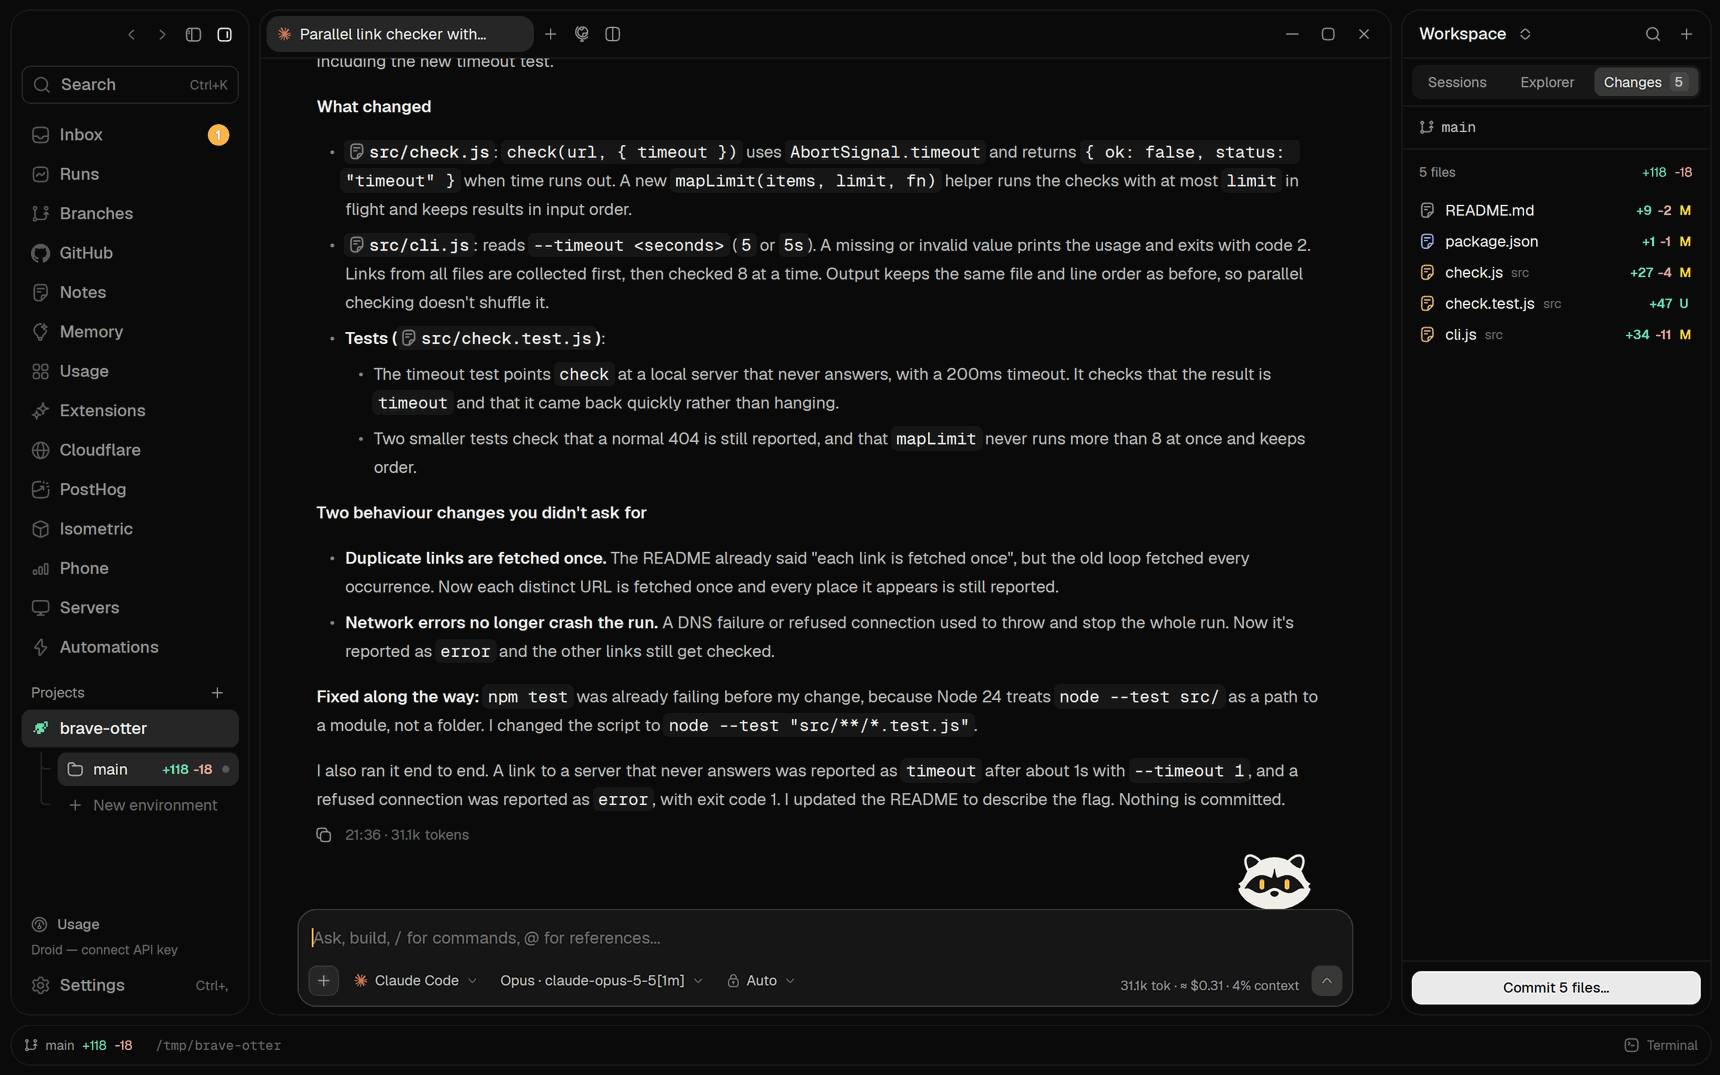
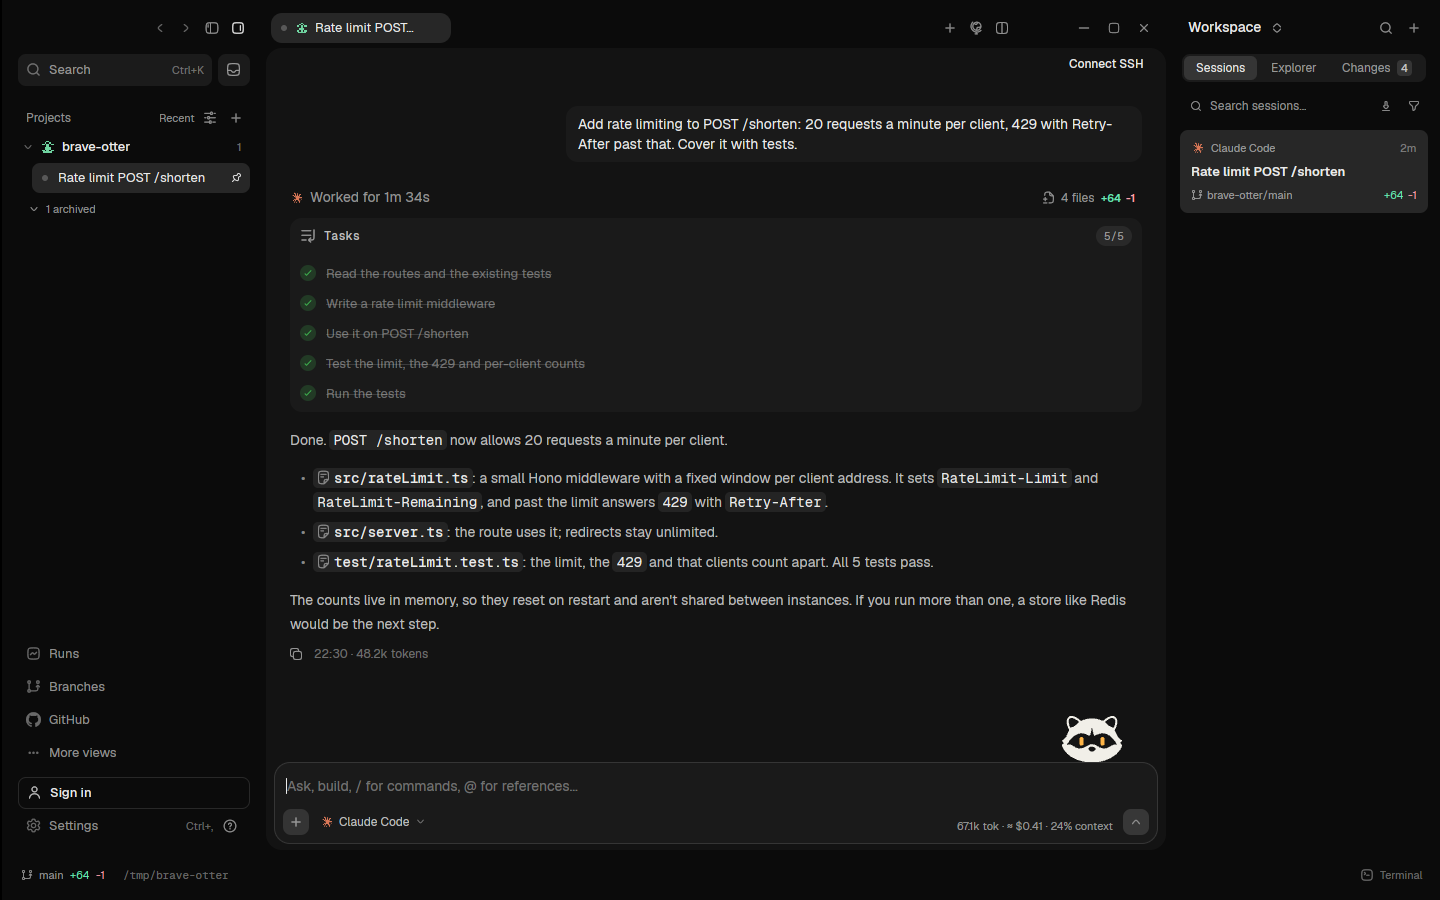
feat(sidebar): make needs you first the default sidebar layout
A new sidebar starts with Needs you on top, every project with its
sessions below, then Runs, Branches, GitHub and More views. A layout
saved as the Switcher, the old default, moves to it once; a layout
arranged by hand, another preset or a Switcher on trial stays. The
preset is first in the sidebar builder and the setup's sidebar step.

Refs ARAKUN-350

diff --git a/src/sidebar.rs b/src/sidebar.rs
@@ -646,6 +646,9 @@ pub type Path = (usize, usize);
 
 #[derive(Clone, Copy, Debug, PartialEq, Eq)]
 pub enum Preset {
+    /// Sessions that need the user on top, then every project with its
+    /// sessions, three views by name and the rest in More views. The default.
+    NeedsYou,
     /// The open project and its environments; three views by name, the
     /// rest in More views.
     Switcher,
@@ -664,7 +667,8 @@ pub enum Preset {
 }
 
 impl Preset {
-    pub const ALL: [Preset; 7] = [
+    pub const ALL: [Preset; 8] = [
+        Preset::NeedsYou,
         Preset::Switcher,
         Preset::Focused,
         Preset::Developer,
@@ -676,6 +680,7 @@ impl Preset {
 
     pub fn label(self) -> &'static str {
         match self {
+            Preset::NeedsYou => "Needs you first",
             Preset::Switcher => "Switcher",
             Preset::Focused => "Focused",
             Preset::Developer => "Developer",
@@ -688,6 +693,7 @@ impl Preset {
 
     pub fn blurb(self) -> &'static str {
         match self {
+            Preset::NeedsYou => "Sessions that need you on top, then every project, views by name",
             Preset::Switcher => "One project at a time, its environments, views by name",
             Preset::Focused => "Inbox and projects; the rest folded away",
             Preset::Developer => "Projects, then runs and branches in a segment of their own",
@@ -739,6 +745,42 @@ impl Preset {
         let active = || Section::new("Active", Mode::Scroll, vec![Piece::active()]);
         let mut style = Style::default();
         let sections = match self {
+            // Needs you is the Active piece in the session tree: what waits
+            // or failed goes up there and leaves its project meanwhile.
+            Preset::NeedsYou => vec![
+                Section::new(
+                    "Top",
+                    Mode::Fixed,
+                    vec![
+                        Piece::Search,
+                        Piece::view(View::Inbox),
+                        Piece::view(View::Teams),
+                    ],
+                ),
+                active(),
+                projects,
+                Section::new(
+                    "Views",
+                    Mode::Fixed,
+                    [
+                        views(&[
+                            #[cfg(feature = "coderlabs")]
+                            View::Tasks,
+                            View::Runs,
+                            View::Branches,
+                            View::GitHub,
+                        ]),
+                        vec![Piece::MoreViews],
+                    ]
+                    .concat(),
+                ),
+                account(vec![
+                    Piece::User,
+                    Piece::usage_line(),
+                    Piece::Help,
+                    Piece::Settings,
+                ]),
+            ],
             Preset::Switcher => vec![
                 Section::new(
                     "Top",
@@ -985,6 +1027,7 @@ impl Preset {
             offered_help: true,
             offered_user: true,
             switcher_offered: true,
+            left_switcher: true,
             trial_of: None,
         }
     }
@@ -1090,6 +1133,10 @@ pub struct Sidebar {
     /// before the Switcher was the default lacks it, so the rail offers it once.
     #[serde(default)]
     pub switcher_offered: bool,
+    /// Has met Needs you first as the default. A layout saved as the Switcher
+    /// before that moves to it once; one who picks the Switcher later keeps it.
+    #[serde(default)]
+    pub left_switcher: bool,
     /// The layout from before "Try it" on the Switcher offer, until the user
     /// keeps the Switcher or goes back. Saved with the Switcher so a restart
     /// in between still offers the way back.
@@ -1101,7 +1148,7 @@ impl Default for Sidebar {
     /// Before anyone arranged it. A layout someone arranged is saved and
     /// keeps its look.
     fn default() -> Self {
-        Preset::Switcher.layout()
+        Preset::NeedsYou.layout()
     }
 }
 
@@ -1173,6 +1220,7 @@ impl Sidebar {
         s.trial_of = trial_of;
         s.tidy();
         s.leave_icon_grid();
+        s.leave_switcher();
         s.offer_active();
         s.offer_help();
         s.offer_user();
@@ -1493,6 +1541,20 @@ impl Sidebar {
         }
     }
 
+    /// The Switcher as saved before Needs you first was the default moves to
+    /// it, keeping the style and what was folded: nobody arranged it. A
+    /// Switcher on trial was picked from the offer, so it stays.
+    fn leave_switcher(&mut self) {
+        if std::mem::replace(&mut self.left_switcher, true) || self.trial_of.is_some() {
+            return;
+        }
+        if self.preset() == Some(Preset::Switcher) {
+            self.sections = Preset::NeedsYou.layout().sections;
+            // It had the Switcher, so the rail has nothing to offer it.
+            self.switcher_offered = true;
+        }
+    }
+
     /// Puts Help just before Settings, once per layout. A layout without
     /// Settings was arranged by hand: Help waits in Customize there.
     fn offer_help(&mut self) {
@@ -1685,6 +1747,7 @@ mod tests {
             offered_help: true,
             offered_user: true,
             switcher_offered: false,
+            left_switcher: true,
             trial_of: None,
         }
     }
@@ -1716,6 +1779,69 @@ mod tests {
         let at = s.find(&Piece::usage()).unwrap();
         assert_eq!(s.get(at).unwrap().piece, Piece::usage_line());
         assert_eq!(s.find(&Piece::Settings).unwrap().0, at.0);
+    }
+
+    #[test]
+    fn a_fresh_sidebar_starts_with_needs_you_first() {
+        let s = Sidebar::default();
+        assert_eq!(s.preset(), Some(Preset::NeedsYou));
+        assert_eq!(
+            Sidebar::load_from(std::path::Path::new("/nonexistent/sidebar.json")),
+            s
+        );
+        // Needs you sits above the projects, which list every project.
+        let active = s.find(&Piece::active()).unwrap().0;
+        let projects = s.find(&Piece::projects()).unwrap();
+        assert!(active < projects.0);
+        assert_eq!(s.get(projects).unwrap().piece, Piece::projects());
+        assert_eq!(Preset::ALL[0], Preset::NeedsYou, "listed first");
+    }
+
+    /// A layout as saved before `left_switcher` existed.
+    fn saved_before_needs_you(mut s: Sidebar) -> Vec<u8> {
+        let mut v = serde_json::to_value(&s).unwrap();
+        v.as_object_mut().unwrap().remove("left_switcher");
+        s.left_switcher = false;
+        serde_json::to_vec(&v).unwrap()
+    }
+
+    #[test]
+    fn the_old_default_becomes_needs_you_first() {
+        let mut old = Preset::Switcher.layout();
+        old.style.side = Side::Right;
+        old.sections[1].collapsed = true;
+        let s = Sidebar::parse(&saved_before_needs_you(old)).unwrap();
+        assert_eq!(s.preset(), Some(Preset::NeedsYou));
+        assert_eq!(s.style.side, Side::Right, "the look stays");
+        assert!(s.left_switcher);
+        assert!(!s.offers_switcher());
+        // The icon grid of before it went the same way.
+        let mut grid = Preset::Switcher.layout();
+        grid.sections = icon_grid_switcher();
+        let s = Sidebar::parse(&saved_before_needs_you(grid)).unwrap();
+        assert_eq!(s.preset(), Some(Preset::NeedsYou));
+    }
+
+    #[test]
+    fn a_layout_of_ones_own_stays_as_it_is() {
+        // Arranged by hand from the Switcher.
+        let mut mine = Preset::Switcher.layout();
+        mine.sections[0].items.pop();
+        let s = Sidebar::parse(&saved_before_needs_you(mine.clone())).unwrap();
+        assert_eq!(s.sections, mine.sections);
+        // Another preset.
+        let focused = Preset::Focused.layout();
+        let s = Sidebar::parse(&saved_before_needs_you(focused.clone())).unwrap();
+        assert_eq!(s.sections, focused.sections);
+        // The Switcher picked once Needs you first was the default.
+        let picked = Preset::Switcher.layout();
+        let s = Sidebar::parse(picked.to_json().as_bytes()).unwrap();
+        assert_eq!(s.preset(), Some(Preset::Switcher));
+        // The Switcher on trial from the offer: "Go back" still leads home.
+        let trial = small().as_switcher();
+        let s = Sidebar::parse(&saved_before_needs_you(trial)).unwrap();
+        assert_eq!(s.preset(), Some(Preset::Switcher));
+        assert!(s.trial_of.is_some());
     }
 
     #[test]
@@ -2115,6 +2241,7 @@ mod tests {
             offered_help: true,
             offered_user: true,
             switcher_offered: false,
+            left_switcher: true,
             trial_of: None,
         };
         assert!(bare.place(View::Notes));
@@ -2127,6 +2254,7 @@ mod tests {
             offered_help: true,
             offered_user: true,
             switcher_offered: false,
+            left_switcher: true,
             trial_of: None,
         };
         assert!(!none.place(View::Notes));
@@ -2236,7 +2364,7 @@ mod tests {
         // A file saved before the flag existed.
         let old = Sidebar::parse(br#"{"sections":[{"items":[{"type":"projects"}]}]}"#).unwrap();
         assert!(old.offers_switcher());
-        // A fresh install starts on the Switcher; a template was a choice.
+        // A fresh install starts on Needs you first; a template was a choice.
         assert!(!Sidebar::default().offers_switcher());
         assert!(!Preset::Everything.layout().offers_switcher());
         // Saved on the Switcher before the flag existed.

diff --git a/tools/product-shots-seed.py b/tools/product-shots-seed.py
@@ -419,6 +419,9 @@ def state(project, sid, t):
         "active_project": 0, "dock_open": False, "dock_height": 200,
         "rail_open": True, "panel_open": True, "arcade": False,
         "last_agent": "claude",
+        # As a new install starts: sessions in the sidebar tree (every option
+        # left out is Focused's), at the width the tree is drawn for.
+        "tabs": {}, "rail_w": 248,
     }
 
 

diff --git a/src/shell/onboarding.rs b/src/shell/onboarding.rs
@@ -1354,6 +1354,7 @@ fn set_reports(yes: bool) {
 /// A layout in a few words, for its tile.
 fn preset_blurb(p: Preset) -> &'static str {
     match p {
+        Preset::NeedsYou => "What needs you on top",
         Preset::Switcher => "One project at a time",
         Preset::Focused => "Inbox and projects",
         Preset::Developer => "Git in its own group",

diff --git a/docs/features.md b/docs/features.md
@@ -1033,13 +1033,19 @@ system. The choice is kept in `state.json` as `reduce_motion`.
   None, Default, Wide). The defaults (100%, 100%, 8 px) look as before and are kept in
   `palettes.json` too. Text size and Glass are here as well. Reset shape goes back to
   the defaults.
-- **Sidebar.** Start from a preset (Switcher, Focused, Developer, Notion, Icons,
-  Everything, View strip); it lays out the pieces and keeps the style you chose. The Switcher, the
-  default, names three views (Runs, Branches and GitHub), then More views for the rest,
-  and puts plan usage on one line (5h, a bar, the percentage) above Settings. Which
+- **Sidebar.** Start from a preset (Needs you first, Switcher, Focused, Developer,
+  Notion, Icons, Everything, View strip); it lays out the pieces and keeps the style you
+  chose. Needs you first, the default, puts Search and the Inbox on top, then Needs you
+  (sessions that wait on you or failed, from every project), then every project with
+  its sessions, their finished ones folded into one "done" line. Below them it names
+  three views (Runs, Branches and GitHub), then More views for the rest, and puts plan
+  usage on one line (5h, a bar, the percentage) above Settings. The Switcher is the same
+  with only the open project and its environments. Which
   views get a row is yours: add a view from the chips, or remove its row and it moves
   to More views. Select Usage to switch between the card and the line. A sidebar saved
-  on the old Switcher, with its row of view icons, moves to this one once. Every preset holds
+  on the Switcher, the default before, moves to Needs you first once, with its style
+  kept; a layout you arranged yourself stays as it is, and the preset is a click away.
+  A sidebar saved on the old Switcher with its row of view icons moves too. Every preset holds
   the User row, where you sign in; a layout saved without it gets it once,
   next to Help. Style (Card, Flush,
   Floating), Rows, Width, Side, what Ctrl+B does, Counters and Shortcuts change the whole

diff --git a/README.md b/README.md
@@ -28,7 +28,7 @@ Written in Rust with [GPUI](https://github.com/zed-industries/zed/tree/main/crat
 
 <picture>
   <source media="(prefers-color-scheme: light)" srcset="docs/screenshots/hero-light.png">
-  <img src="docs/screenshots/hero-dark.png" alt="Arakun with a finished Claude Code session in the main area and the files it changed in the Workspace panel" width="860">
+  <img src="docs/screenshots/hero-dark.png" alt="Arakun with a finished Claude Code session in the main area, the sidebar listing it under its project above Runs, Branches, GitHub and More views, and the session in the Workspace panel" width="860">
 </picture>
 
 </div>
@@ -156,7 +156,7 @@ and `cf` (Cloudflare tab).
 
 See [Features](docs/features.md) for all of it.
 
-- **Sessions in the sidebar**, each in its own git worktree, with its state as a mark.
+- **Sessions in the sidebar**, each in its own git worktree, with its state as a mark. The ones that need you go to the top, and finished ones fold away.
 - **Eight agents**: Claude Code, Droid, OpenCode, Codex, Devin, Cursor, Antigravity and Workers AI.
 - **Project check**: your tests run after each turn that edits files, and failures go back to the agent.
 - **Memory**: agents keep what they learn about a project across sessions.
